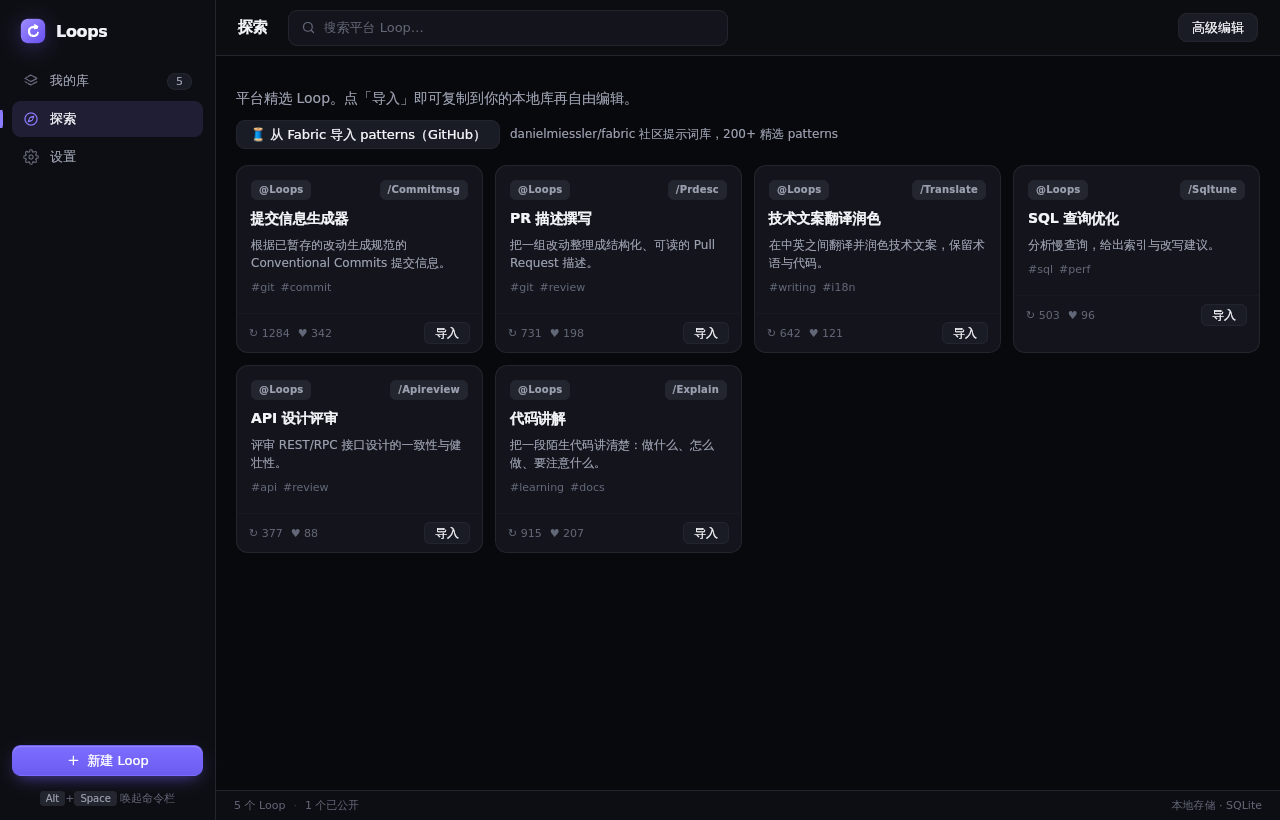
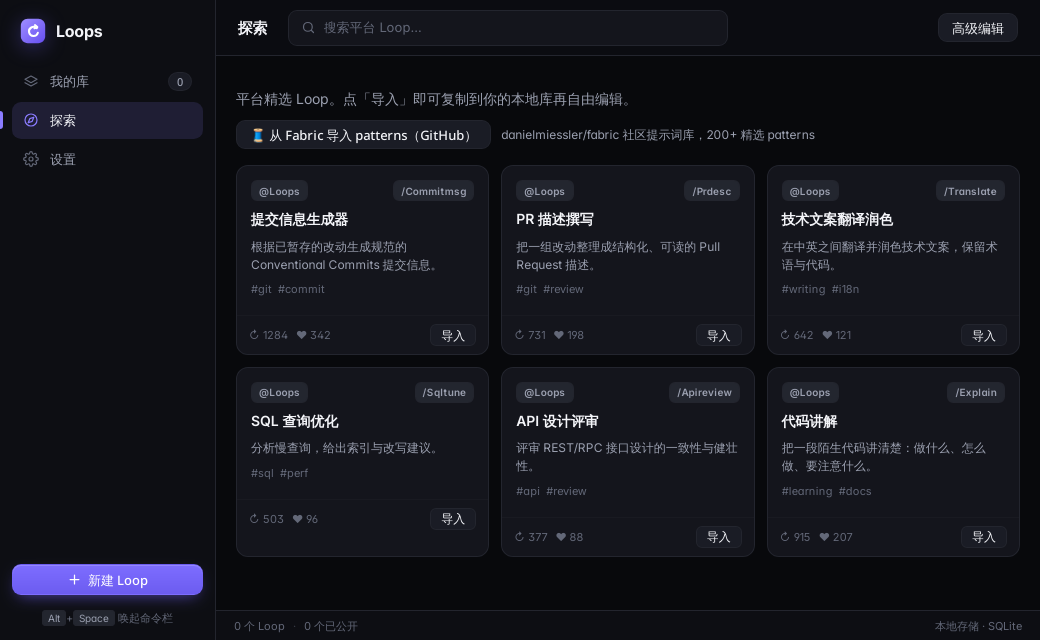
docs: recapture screenshots from the running desktop app

diff --git a/README.md b/README.md
@@ -29,6 +29,9 @@ provider/model/key, and local data management.
 
 ![Settings](docs/screenshots/settings.png)
 
+> Screenshots were re-captured from the current code by running the Tauri app (WebKitGTK) on Linux under Xvfb. The 4 loops in the library were imported from the built-in samples on the Discover page. The app UI is Chinese only (there is no language switch), so both READMEs use the same screenshots.
+> Known issue: under WebKitGTK on Linux, the dropdowns on the Settings page (global hotkey, AI provider) are drawn with the native white style and the selected value is not visible.
+
 ## Features
 
 - **Local loop library** — create, edit, duplicate, delete; search by title,

diff --git a/README.zh-CN.md b/README.zh-CN.md
@@ -20,7 +20,8 @@
 
 ![设置](docs/screenshots/settings.png)
 
-> 资产库窗口的界面文字以英文为主，命令栏等部分界面为中文；截图为应用当前的真实界面。
+> 截图按当前代码重新实拍：在 Linux（Xvfb）上运行 Tauri 应用（WebKitGTK），库里的 4 个 Loop 是从「探索」页导入的内置示例。应用界面只有中文，没有语言切换，所以中英文 README 用同一组截图。
+> 已知问题：在 Linux 的 WebKitGTK 下，设置页的下拉框（全局热键、AI 提供商）按系统原生样式画成白底，看不到选中值。
 
 ## 功能特性
 
